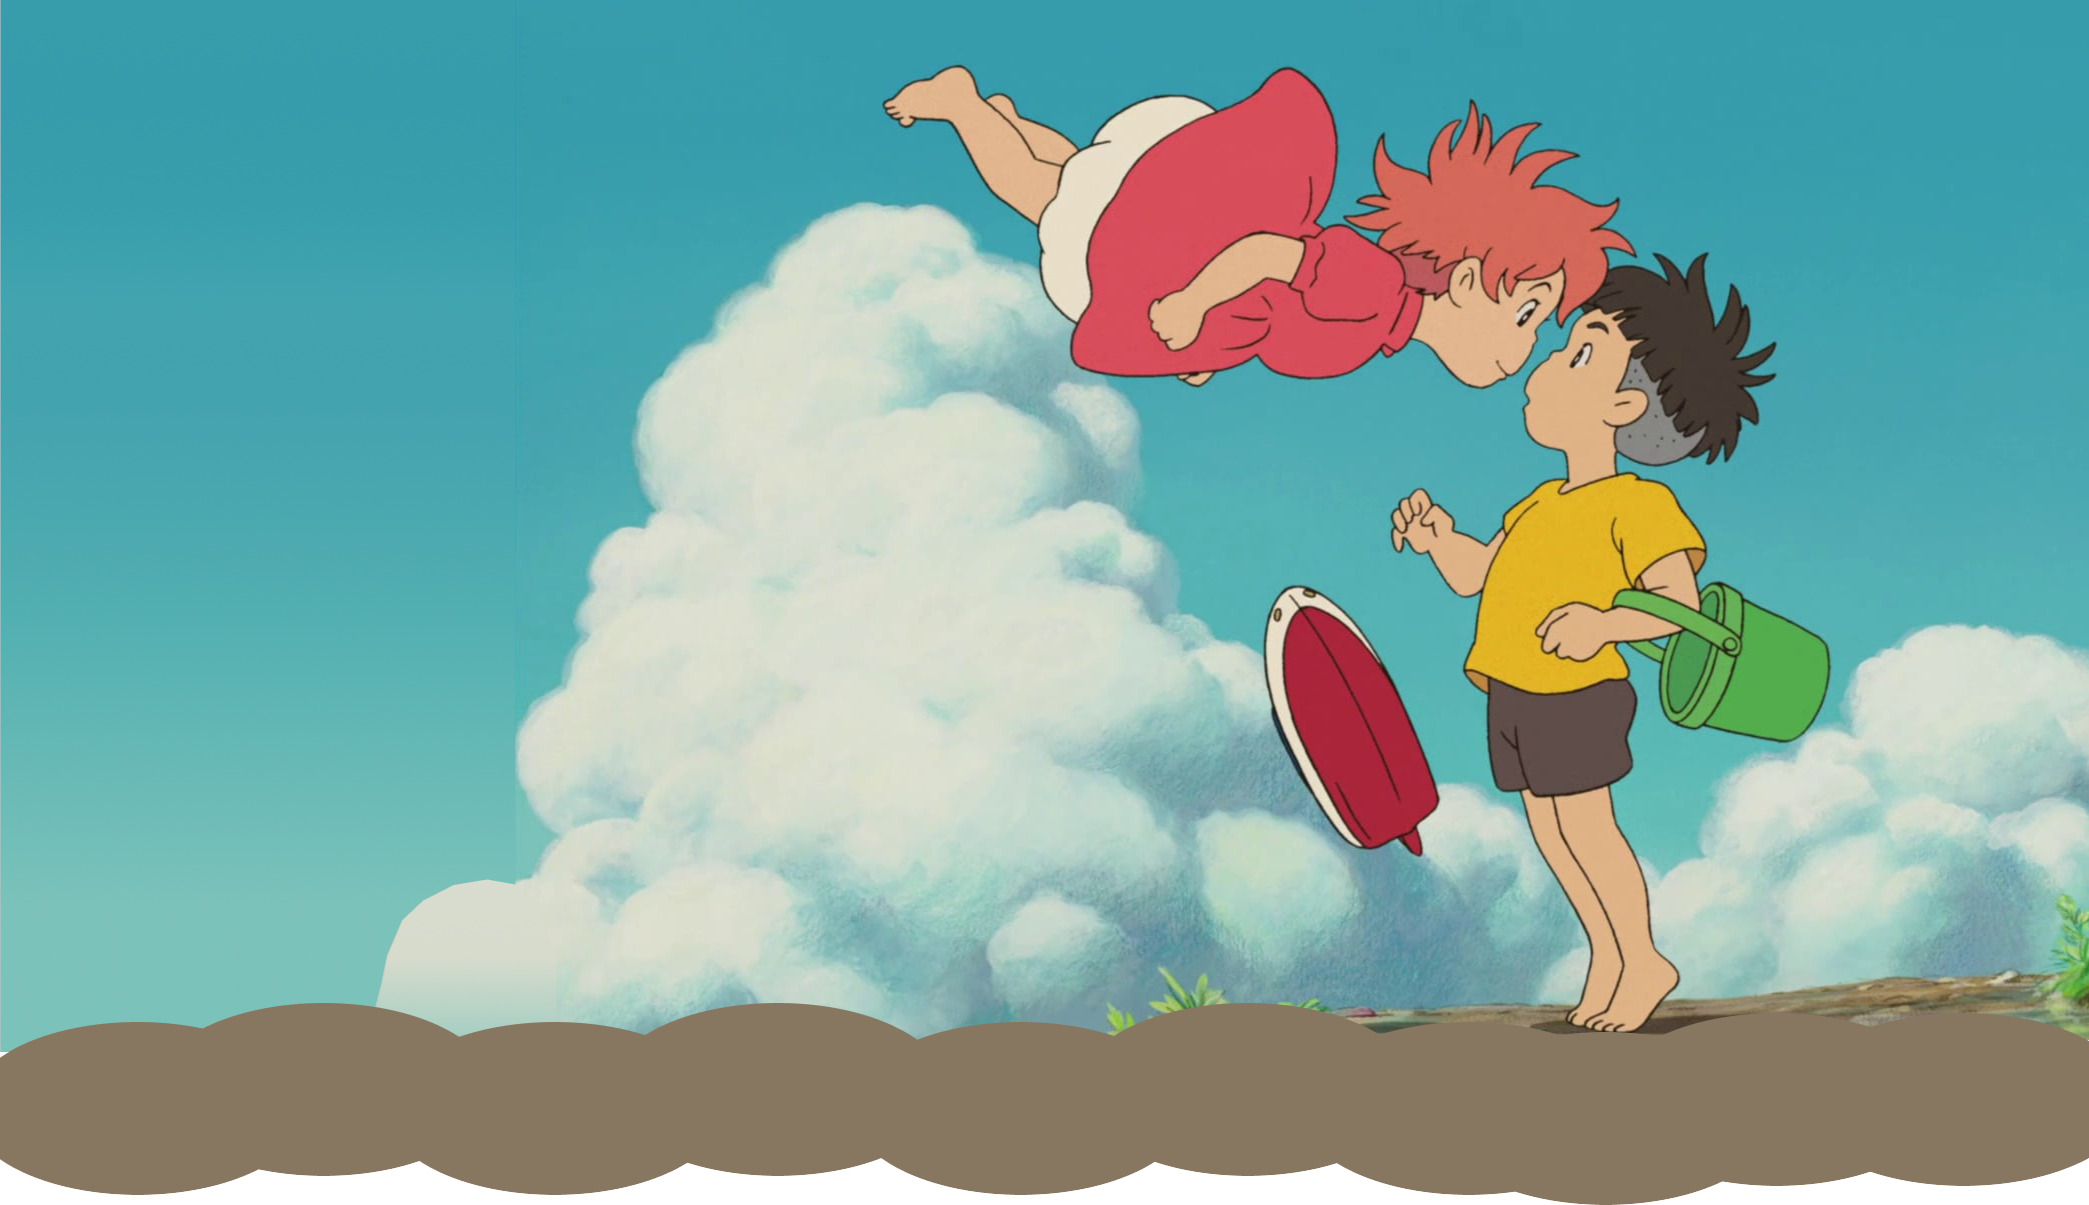
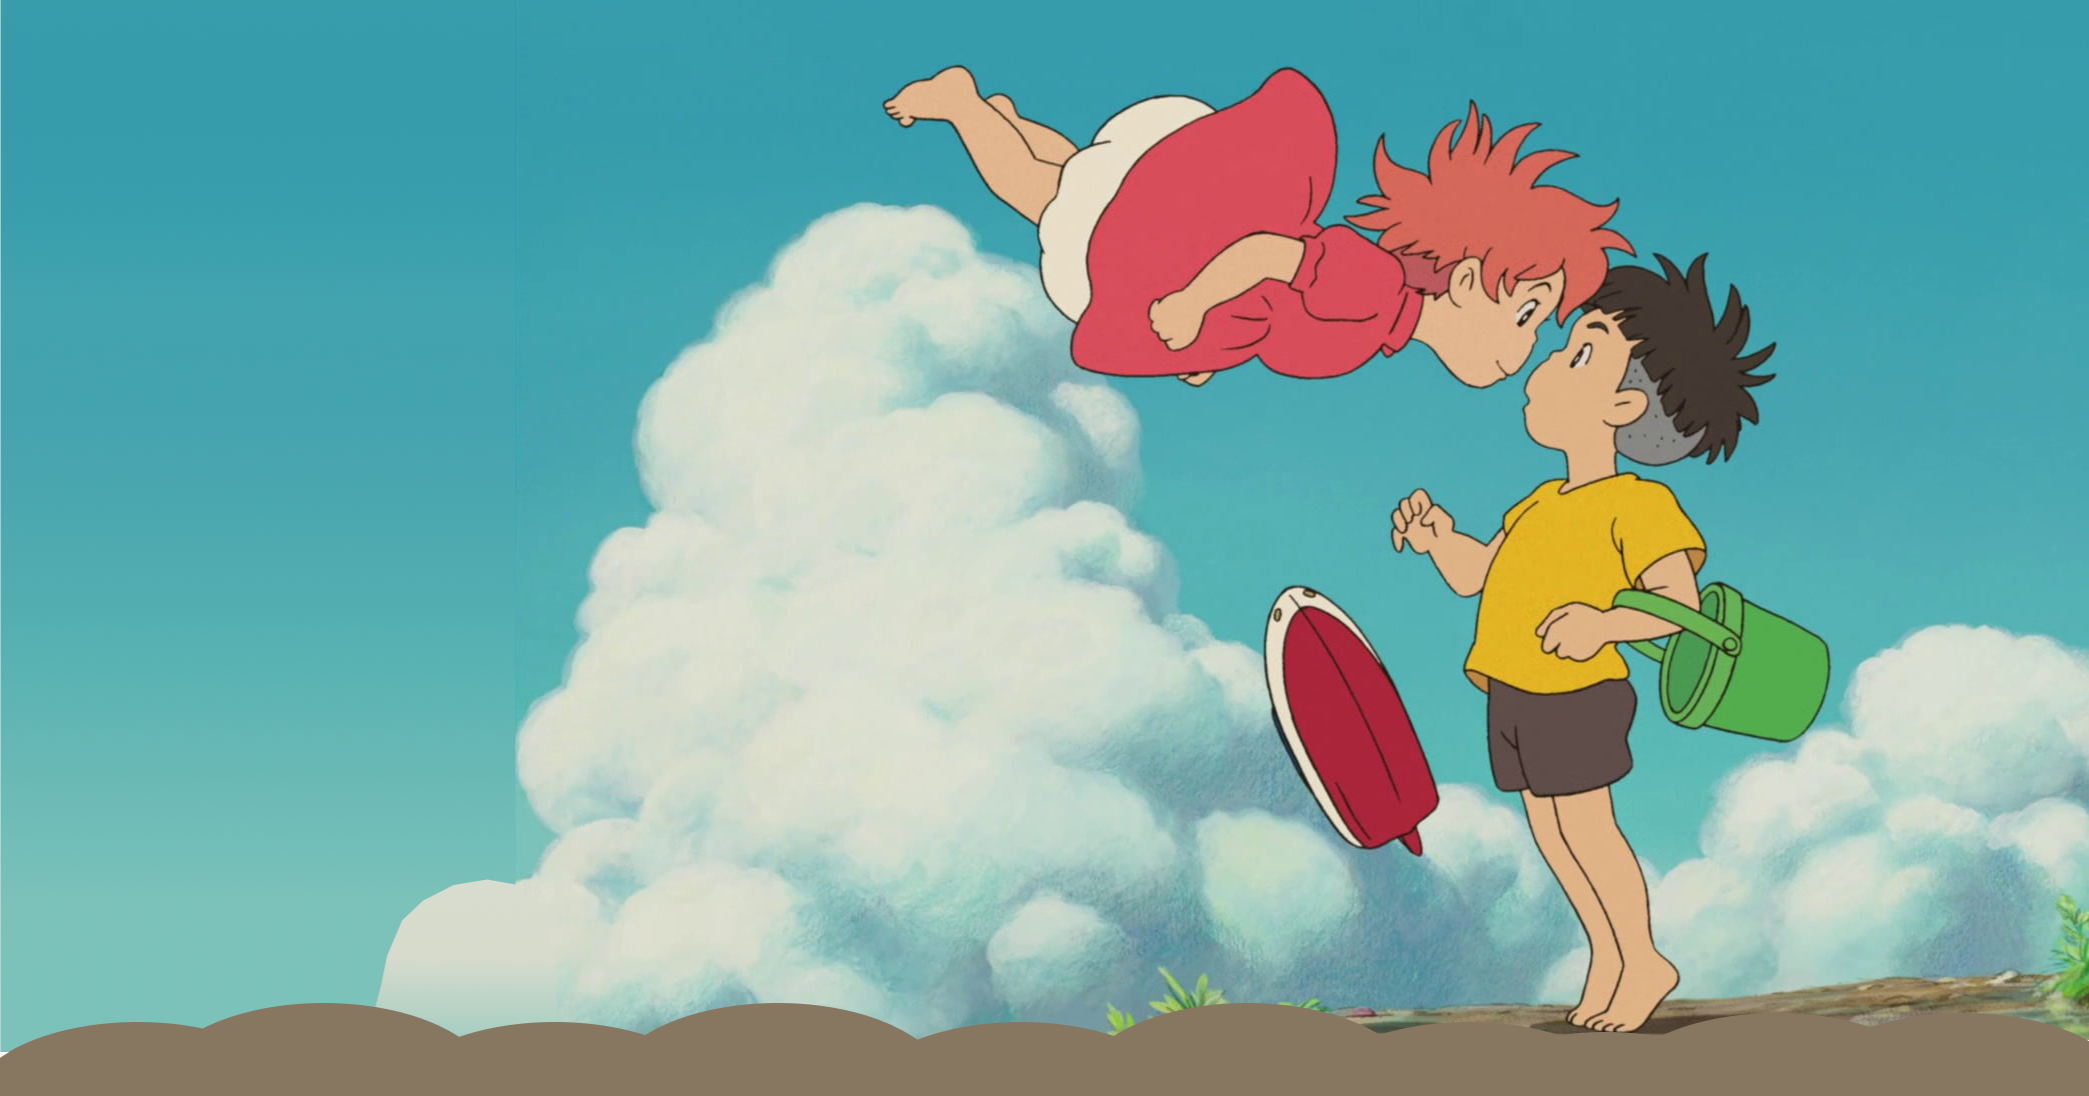
button fix and bg color

diff --git a/exercicio-css/styles.css b/exercicio-css/styles.css
@@ -29,7 +29,14 @@
     font-weight: 800;
     font-style: normal;
   }
-  
+
+.size20 {
+    font-size: 20px;
+}
+
+.size70 {
+    font-size: 70px;
+}
 
 /* This is a comment */
 
@@ -71,7 +78,7 @@ ul {
 
 .banner-content {
     position: absolute;
-    top: 25%;
+    top: 15%;
     left: 2%; /* Moves text closer to the left */
    
     text-align: left; /* Aligns text to the left */
@@ -79,6 +86,22 @@ ul {
     text-shadow: 2px 2px 5px rgba(0, 0, 0, 0.7);
 }
 
+.watch-button {
+    display: inline-block;
+    background-color: #ff6666;
+    color: white;
+    padding: 10px 20px;
+    text-decoration: none;
+    border-radius: 15px;
+}
+
+.watch-button:hover {
+    background-color: #cc3333;
+}
+
+.colorbrown {
+    background-color: #877761;
+}
 
 
 /* content */
@@ -122,4 +145,12 @@ ul {
 
 .marginR30 {
     margin-right: 30px;
+}
+
+.marginBzero {
+    margin-bottom: 0;
+}
+
+.marginT10{
+    margin-top: 10px;
 }

diff --git a/index.html b/index.html
@@ -16,7 +16,7 @@
 
 
 
-    <body class="regular">
+    <body class="regular colorbrown">
 <header >
       <nav >
         <ul class="displayflex flexstart">
@@ -30,9 +30,9 @@
 
 <section class="banner displayrelative">
     <div class="banner-content width40">
-        <h1>PONYO by Hayao Miyazaki</h1>
+        <h1 class="size70 marginBzero">PONYO <span class="regular size20">by Hayao Miyazaki</span></h1>
         <p>Perfect for audiences of all ages, Ponyo centers on the friendship between five-year-old Sosuke and a magical goldfish named Ponyo, the young daughter of a sorcerer father and a sea-goddess mother. After a chance encounter, Ponyo yearns to become a human so she can be with Sosuke.</p>
-        <a href="#" class="watch-button">WATCH</a>
+        <a href="#" class="watch-button size20 marginT10">WATCH</a>
     </div>
     <img src="exercicio-css/imagens/banner.png" alt="">
 </section>
